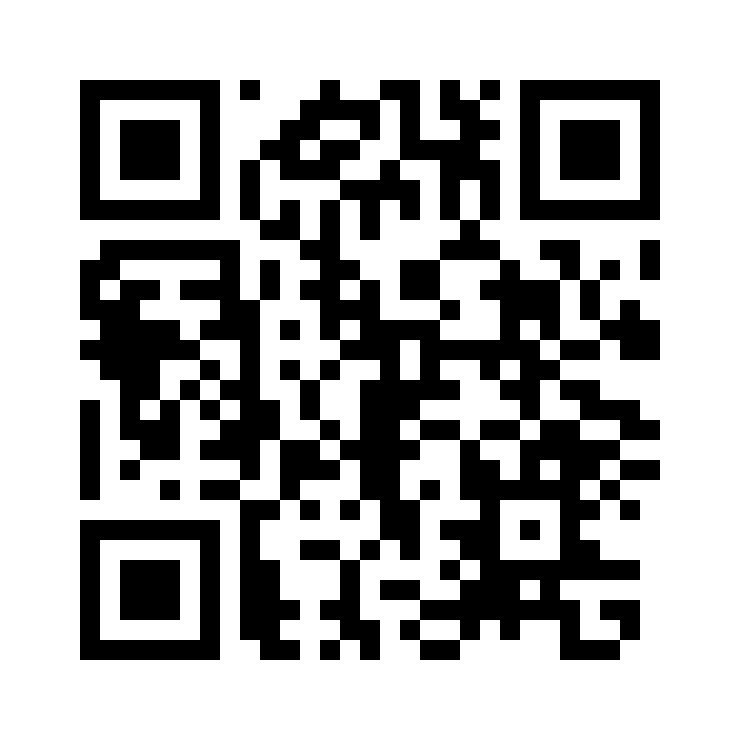
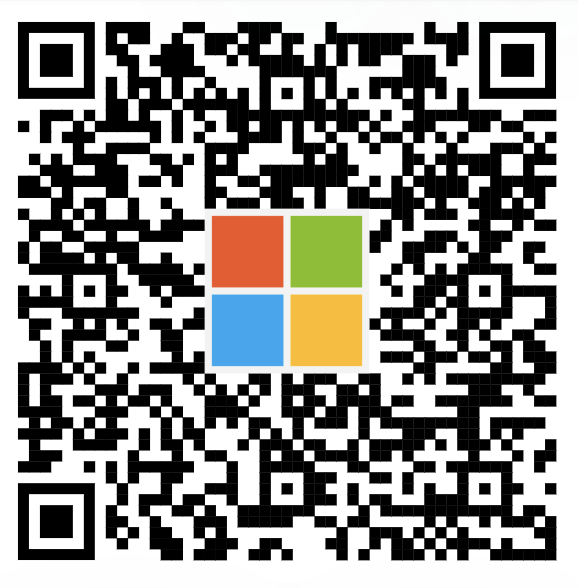
more changes for cybersec

diff --git a/src/components/QuestionsCyberSec.js b/src/components/QuestionsCyberSec.js
@@ -1,4 +1,82 @@
 export default  [
+
+  {
+    "category": "faq",
+    "type": "multiple",
+    "difficulty": "hard",
+    "question": "What is Microsoft Sentinel, and how does it work?",
+    "correct_answer": "Microsoft Sentinel is a cloud-native security information and event management (SIEM) platform that uses built-in AI to help analyze large volumes of data across an enterprise—fast.",
+      "incorrect_answers": [
+        "Microsoft Sentinel is a PaaS service on Azure, and has nothing to do with security.",
+        "Microsoft Sentinel allows you to build low-code/no-code security applications.",
+        "Microsoft Sentinel is not a Microsoft Azure solution."
+      ]
+  },
+  {
+    "category": "faq",
+    "type": "multiple",
+    "difficulty": "hard",
+    "question": "How much does Microsoft invest annually in cybersecurity?",
+    "correct_answer": "1B USD",
+      "incorrect_answers": [
+        "100K USD",
+        "10B USD",
+        "100M USD"
+      ]
+  },
+  {
+    "category": "faq",
+    "type": "multiple",
+    "difficulty": "hard",
+    "question": "Which Azure resources are monitored by Microsoft Defender for Cloud?",
+    "correct_answer": "Virtual machines (VMs), Virtual Machine Scale Sets and many Azure PaaS services listed in the product overview",
+      "incorrect_answers": [
+        "Virtual machines (VMs) and several PaaS services.",
+        "Only a few Azure PaaS services listed in the product overview.",
+        "All databases, storage accounts, and Virtual machines (VMs)"
+      ]
+  },
+  {
+    "category": "faq",
+    "type": "multiple",
+    "difficulty": "hard",
+    "question": "How can I see the current security state of my Azure, multicloud, and on-premises resources?",
+    "correct_answer": "The Defender for Cloud Overview page shows the overall security posture of your environment broken down by Compute, Networking, etc.",
+      "incorrect_answers": [
+        "You have to build a custom script that brings all your metrics together in a single place.",
+        "You have dashboard for your Azure resources, and another dashboard for your on-premises resources.",
+        "It's not possible.."
+      ]
+  },
+  {
+    "category": "faq",
+    "type": "multiple",
+    "difficulty": "hard",
+    "question": "What triggers a security alert?",
+    "correct_answer": "Microsoft Defender for Cloud automatically collects, analyzes, and fuses log data from your resources. When threats are detected, a security alert is created.",
+      "incorrect_answers": [
+        "You have to build your own custom script that analyzes your logs.",
+        "Security alerts are not built into Microsoft Defender for Cloud.",
+        "You have to manually create security alerts."
+      ]
+  },
+  {
+    "category": "faq",
+    "type": "multiple",
+    "difficulty": "hard",
+    "question": "How many security experts does Microsoft employ dedicated to data security and privacy?",
+    "correct_answer": "3,500",
+      "incorrect_answers": [
+        "100",
+        "1,500",
+        "5,000"
+      ]
+  },
+  
+
+
+
+
   {
     "category": "describe basic cybersecurity",
     "type": "multiple",
@@ -141,6 +219,134 @@ export default  [
         "Network access control",
         "PPNP",
         "Virtual private network"
+      ]
+  },
+
+
+  {
+    "category": "microsoft-best-practices",
+    "type": "multiple",
+    "difficulty": "hard",
+    "question": "Microsoft has built capabilities and resources to help accelerate your implementation of this security guidance on Microsoft Azure. Which tool is responsible for continuous assessment of the workloads and provides security visibility via Secure Score?",
+    "correct_answer": "Microsoft Defender for Cloud",
+      "incorrect_answers": [
+        "Microsoft cloud security benchmark",
+        "Microsoft Sentinel",
+        "Microsoft Cloud App Security"
+      ]
+  },
+  {
+    "category": "microsoft-best-practices",
+    "type": "multiple",
+    "difficulty": "hard",
+    "question": "Which one of the options below isn't a key security strategy principle?",
+    "correct_answer": "Reduce compromise",
+      "incorrect_answers": [
+        "Productivity and security",
+        "Shared responsibility",
+        "Integration"
+      ]
+  },
+  {
+    "category": "microsoft-best-practices",
+    "type": "multiple",
+    "difficulty": "hard",
+    "question": "A security strategy must enable defined business outcomes while..",
+    "correct_answer": "Reduce risk to an acceptable level and enable employees to be productive.",
+      "incorrect_answers": [
+        "Reduce risk to zero and enable employees to be productive.",
+        "Reduce compromise.",
+        "Reduce risk to an acceptable level and enable partners."
+      ]
+  },
+
+
+
+
+  {
+    "category": "mcra - microsoft cybersecurity reference architecture",
+    "type": "multiple",
+    "difficulty": "hard",
+    "question": "Why is over-customizing patch selection an antipattern?",
+    "correct_answer": "It creates untested builds of operating systems and applications.",
+      "incorrect_answers": [
+        "It delays the deployment of critical patches.",
+        "Patch selection further erodes trust in software vendors.",
+        "It's not an antipattern, it's a best practice."
+      ]
+  },
+  {
+    "category": "mcra - microsoft cybersecurity reference architecture",
+    "type": "multiple",
+    "difficulty": "hard",
+    "question": "XDR systems became widely popular for what reason?",
+    "correct_answer": "They reduced false positives.",
+      "incorrect_answers": [
+        "They provided broad visibility and correlation across all tools and technology.",
+        "They provide greater coverage that SIEM systems do.",
+        "It's not expensive."
+      ]
+  },
+  {
+    "category": "mcra - microsoft cybersecurity reference architecture",
+    "type": "multiple",
+    "difficulty": "hard",
+    "question": "Which of the following statements is an example of the best practice 'Integrate security operations signals with access decisions'?",
+    "correct_answer": "Block access to a compromised asset while it is being restored.",
+      "incorrect_answers": [
+        "Assume breach and explicitly validate telemetry during access requests.",
+        "Use a single identity and implement single sign-on.",
+        "None of the above."
+      ]
+  },
+
+
+  {
+    "category": "design solution - microsoft cybersecurity reference architecture",
+    "type": "multiple",
+    "difficulty": "hard",
+    "question": "Which of the following best defines the objective of a cloud reference architecture like MCRA from Microsoft?",
+    "correct_answer": "To define a secure cloud architecture that can be implemented anywhere with any technology stack",
+      "incorrect_answers": [
+        "To handle all cloud migration projects with the same approach",
+        "To prescribe a set of tools and vendors for building secure clouds",
+        "To focus only on technical security tips for cloud architects"
+      ]
+  },
+  {
+    "category": "design solution - microsoft cybersecurity reference architecture",
+    "type": "multiple",
+    "difficulty": "hard",
+    "question": "What is a key benefit of using architectural patterns, such as those found in the MCRA reference architecture when addressing cloud security concerns?",
+    "correct_answer": "Patterns reduce costs by limiting the number of components, platforms, and architectures that must be secured",
+      "incorrect_answers": [
+        "Patterns eliminate the need for detailed security assessment for each individual project",
+        "Patterns enable software to adapt to any type of threat in real-time",
+        "Patterns are just guidelines and should not be used in production"
+      ]
+  },
+  {
+    "category": "design solution - microsoft cybersecurity reference architecture",
+    "type": "multiple",
+    "difficulty": "hard",
+    "question": "What is the purpose of the Microsoft Cloud Security Benchmark?",
+    "correct_answer": "To provide a set of recommended security configurations and best practices for Microsoft cloud services.",
+      "incorrect_answers": [
+        "To provide a comprehensive list of all possible security threats to Microsoft cloud services.",
+        "To provide a list of all security breaches that have occurred in Microsoft cloud services.",
+        "To provide a tool for testing the vulnerability of Microsoft cloud services to attacks."
+      ]
+  },
+  {
+    "category": "design solution - microsoft cybersecurity reference architecture",
+    "type": "multiple",
+    "difficulty": "hard",
+    "question": "What is the difference between defensive and detective security controls, as discussed in the Microsoft cloud security benchmark",
+    "correct_answer": "Defensive controls proactively prevent security incidents while Detective controls detect and respond to these incidents after they occur",
+      "incorrect_answers": [
+        "Detective controls focus on changing user behavior while defensive controls monitor for incidents",
+        "Detective controls rely on passive monitoring of system logs while defensive controls require active scanning",
+        "Defensive controls rely entirely on preemptive configuration while Detective controls mostly operate via heuristic algorithms"
       ]
   },
 ]

diff --git a/src/components/Start.js b/src/components/Start.js
@@ -51,7 +51,7 @@ export default function Start({ setUsername, setEmail }) {
           ref={inputRefEmail}
         />
         <p class="agree">
-          <input type="checkbox" id="agree"  ref={inputRefAgree}/> <label for="agree">My information is solely used for this game purposes (winner announcement). Your personal data (nickname and email address) will be removed after the winner of this game is announced.</label>
+          <input type="checkbox" id="agree"  ref={inputRefAgree}/> <label for="agree">My information is solely used for this game purposes (winner announcement). Your personal data (nickname and email address) will be removed after the winner of this game is announced; for example at end of day. Only your username (or nickname) will be displayed on the leaderboard. Your email address will not be used/shared with any Microsoft marketing engine or 3rd party. Microsoft is allowed to change the winning object (price) at any moment.</label>
         </p>
         <button className="startButton" onClick={handleClick}>
           Let's go!

diff --git a/src/App.js b/src/App.js
@@ -229,7 +229,7 @@ function App() {
 
       <div className="startScreen" style={{"background-image": "url(./"+theme+"-bg.png)", "background-size": "contain"}}>
         <header>
-          <h1>Test your Security knowledge<br/>Win great prices!</h1>
+          <h1>Test your Security knowledge<br/>Win great prices each day!</h1>
           <button className="go-to" onClick={showLeaderboard}>🏆 Go to leaderboard</button>
         </header>
         <Start setUsername={setUserName} setEmail={setEmail} />
@@ -260,9 +260,8 @@ function App() {
 
                         <h4>or</h4>
 
-
                         <img class="qr-code" src="./qr-code.png"/>
-                        <h4 className="learn-more">Learn more about Cyber security at Microsoft!</h4>
+                        <h4 className="learn-more">Learn more about cybersecurity at Microsoft!</h4>
                       </div>
 
                       <div className="answer-table">

diff --git a/src/components/Leaderboard.js b/src/components/Leaderboard.js
@@ -192,9 +192,13 @@ class Leaderboard extends Component {
   render() {
     return (
       <div className='leaderboard' style={{"background-image": "url(./"+this.props.event+"-bg.png)", "background-size": "contain"}}>
-      <h1>Test your Security knowledge<br/>Win great prices!</h1>
+      <h1>Test your Security knowledge<br/>Win great prices each day!</h1>
 
-      <button onClick={this.props.playGame}>🚀 Play the game</button>
+        <button onClick={this.props.playGame}>🚀 Click to Play the Quiz</button>
+        
+        <h2>or practice first..</h2>
+        <img class="qr-code" src="./qr-code.png"/>
+        
         <div className='leaderboard-table'>
           <table id="lBoard">
             <tbody className='ranking'>

diff --git a/src/App.css b/src/App.css
@@ -1,5 +1,5 @@
 
-h1 {
+h1, h2 {
   font-family: 'Roboto', sans-serif;
   font-weight: 800;
   margin-top: 80px;
@@ -160,6 +160,13 @@ header {
   font-size: 67px;
   max-width: 1200px;
   margin: 120px auto 30px;
+}
+
+.leaderboard h2,
+.startScreen h2 {
+  font-size: 27px;
+  max-width: 1200px;
+  margin: 20px auto 30px;
 }
 
 .leaderboard button, 
